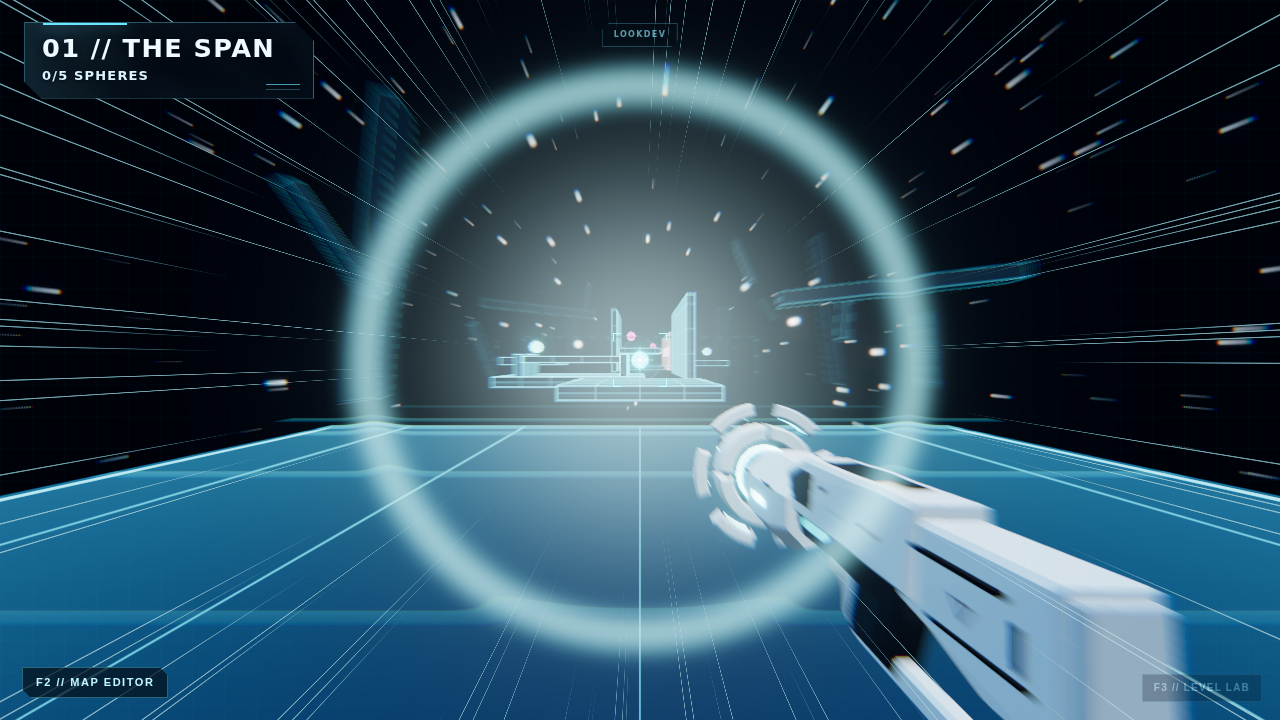
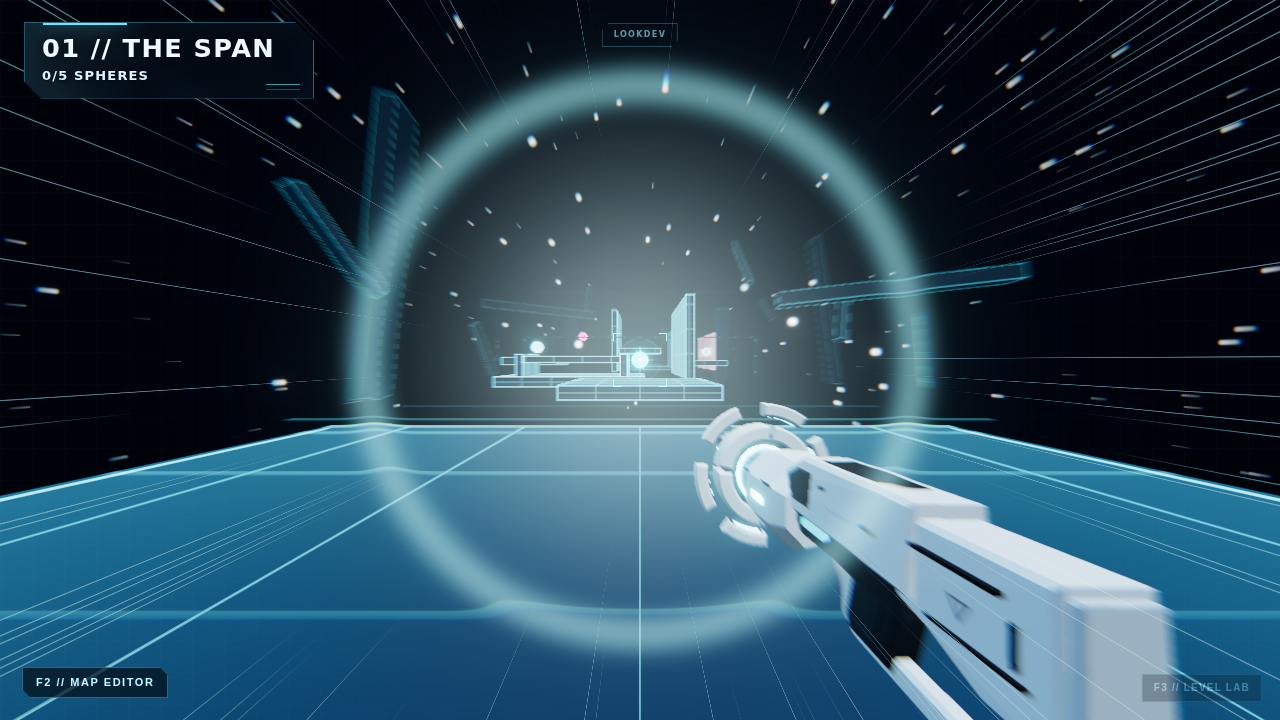
fx: livelier rifle halo and a lighter warp lens
Rifle: one smoothed energy level (idle, anchor ready, primed, transit)
now drives every moving part together. The halo orbits the barrel, each
plate floats and tilts on its own phase, a breathing wave travels around
the ring, the core rotor spins up hard and the white core shell
counter-rotates.
Warp lens: about 35-45% less zoom blur, streak light, core glow, fringe
and ring strength, with a shorter tail (60 ms) and arrival (0.42 s) to
match how quickly warps move.

Claude-Session: https://claude.ai/code/session_011A1omcdcdNXpTBuZ7Lrzgf

diff --git a/src/art/procedural/models/createWarpRifleModel.ts b/src/art/procedural/models/createWarpRifleModel.ts
@@ -288,11 +288,15 @@ export function createWarpRifleModel(): THREE.Group {
   const coreHousing = new THREE.Mesh(fullRing(0.225, 0.29, 0.15), graphite);
   coreHousing.name = "warp-core-housing";
   coreAnchor.add(coreHousing);
-  // Segmented white shell over the housing, with four machined gaps.
+  // Segmented white shell over the housing, with four machined gaps. It turns
+  // slowly against the halo so the core always reads as a live mechanism.
+  const coreShell = new THREE.Group();
+  coreShell.name = "core-shell-pivot";
+  coreAnchor.add(coreShell);
   for (let i = 0; i < 4; i += 1) {
     const seg = new THREE.Mesh(annulus(0.262, 0.34, Math.PI * 0.03 + i * Math.PI * 0.5, Math.PI * 0.44, 0.18, 0.016), white);
     seg.name = `warp-core-shell-${i}`;
-    coreAnchor.add(seg);
+    coreShell.add(seg);
   }
   const face = new THREE.Mesh(new THREE.CircleGeometry(0.24, 40), dark);
   face.position.z = -0.05;
@@ -417,12 +421,18 @@ export function createWarpRifleModel(): THREE.Group {
   recoilPivot.add(muzzleSocket);
 
   root.userData.warpRifleMaterials = { energy, energySoft };
-  root.userData.warpRifleParts = { recoilPivot, coreAnchor, corePivot, ringSegments, muzzleAssembly, muzzleSocket };
+  root.userData.warpRifleParts = { recoilPivot, coreAnchor, coreShell, corePivot, ringSegments, muzzleAssembly, muzzleSocket };
   return root;
+}
+
+/** Smoothly approach a target so state changes ramp instead of snapping. */
+function approach(current: number, target: number, dt: number, seconds: number): number {
+  return current + (target - current) * (1 - Math.exp(-dt / seconds));
 }
 
 export function updateWarpRifleModel(visual: THREE.Group, dt: number, time: number): void {
   const parts = visual.userData.warpRifleParts as {
+    coreShell?: THREE.Group;
     corePivot?: THREE.Group;
     ringSegments?: THREE.Group;
     muzzleAssembly?: THREE.Group;
@@ -433,22 +443,33 @@ export function updateWarpRifleModel(visual: THREE.Group, dt: number, time: numb
   } | undefined;
   const state = (visual.parent?.userData.traversalWeaponState ?? {}) as WarpRifleVisualState;
   const preview = Boolean(state.anchorReady && state.warpHeld);
+  const motion = visual.userData.warpRifleMotion as { spin: number; orbit: number; shell: number; spread: number; energy: number } | undefined
+    ?? (visual.userData.warpRifleMotion = { spin: 0.6, orbit: 0, shell: 0, spread: 0, energy: 0 });
 
-  if (parts?.corePivot) parts.corePivot.rotation.z += dt * (state.transiting ? 6 : preview ? 2.8 : 0.6);
+  // One "energy" level drives every moving part so they accelerate together:
+  // idle 0, anchor ready 0.35, primed 0.7, transit 1.
+  motion.energy = approach(motion.energy, state.transiting ? 1 : preview ? 0.7 : state.anchorReady ? 0.35 : 0, dt, state.transiting ? 0.04 : 0.18);
+  const e = motion.energy;
+
+  // Core rotor spins up hard; the white shell counter-rotates slowly.
+  motion.spin = approach(motion.spin, 0.6 + e * e * 9, dt, 0.12);
+  if (parts?.corePivot) parts.corePivot.rotation.z += dt * motion.spin;
+  if (parts?.coreShell) parts.coreShell.rotation.z -= dt * (0.12 + e * 0.9);
 
   if (parts?.ringSegments) {
-    // Halo drifts slowly and opens outward while a warp is primed.
-    const spread = state.transiting ? 0.07 : preview ? 0.04 + Math.sin(time * 9) * 0.006 : state.anchorReady ? 0.012 : 0;
-    parts.ringSegments.rotation.z = Math.sin(time * 0.7) * 0.03;
+    // The halo orbits the barrel as a whole, each plate floats on its own
+    // phase, and a breathing wave travels around the ring.
+    motion.orbit += dt * (0.28 + e * e * 5.5);
+    motion.spread = approach(motion.spread, e * 0.07, dt, 0.08);
+    parts.ringSegments.rotation.z = motion.orbit;
     parts.ringSegments.children.forEach((segment, index) => {
       const angle = segment.userData.baseAngle as number;
-      const bob = Math.sin(time * 1.9 + index * 1.1) * 0.004;
-      const target = spread + bob;
-      const ease = 1 - Math.exp(-dt * 10);
-      const current = (segment.userData.offset as number | undefined) ?? 0;
-      const offset = current + (target - current) * ease;
-      segment.userData.offset = offset;
-      segment.position.set(Math.cos(angle) * offset, Math.sin(angle) * offset, 0);
+      const wave = Math.sin(angle * 2 - time * (2.2 + e * 6));
+      const radial = motion.spread + wave * (0.005 + e * 0.008);
+      segment.position.set(Math.cos(angle) * radial, Math.sin(angle) * radial, Math.sin(time * 1.7 + index * 0.9) * (0.008 + e * 0.012));
+      // Plates tilt like they are held by a field, not bolted on.
+      segment.rotation.x = Math.sin(time * 1.3 + index * 1.7) * (0.05 + e * 0.05);
+      segment.rotation.y = Math.cos(time * 1.1 + index * 2.3) * (0.05 + e * 0.05);
     });
   }
 
@@ -461,7 +482,7 @@ export function updateWarpRifleModel(visual: THREE.Group, dt: number, time: numb
         ? 4.6 + Math.sin(time * 10) * 0.8
         : state.anchorReady
           ? 3.4 + Math.sin(time * 4.4) * 0.25
-          : 2.6;
+          : 2.6 + Math.sin(time * 1.4) * 0.2;
   }
   if (materials?.energySoft) {
     materials.energySoft.opacity = state.transiting ? 1 : preview ? 0.95 : state.anchorReady ? 0.78 : 0.6;

diff --git a/src/render/WarpLensPass.ts b/src/render/WarpLensPass.ts
@@ -71,16 +71,16 @@ const WarpLensShader = {
 
       // Charge pinch: the edge of the world leans toward the aim point.
       float pinch = uCharge * 0.02 * smoothstep(0.25, 0.95, r);
-      float bend = (-pinch + ring * 0.03) * uMotion;
+      float bend = (-pinch + ring * 0.022) * uMotion;
       vec2 uv = vUv + dir * bend * toUv;
 
-      float fringe = (uCharge * 0.0022 + uTransit * 0.011 + ring * 0.008) * r * uMotion;
+      float fringe = (uCharge * 0.0018 + uTransit * 0.007 + ring * 0.006) * r * uMotion;
       vec2 shift = dir * fringe * toUv;
 
       vec3 col;
       if (uTransit > 0.002) {
         // Zoom tunnel: accumulate samples pulled toward the centre.
-        float blur = uTransit * 0.16 * uMotion;
+        float blur = uTransit * 0.1 * uMotion;
         vec3 acc = vec3(0.0);
         float wsum = 0.0;
         for (int i = 0; i < 12; i++) {
@@ -97,7 +97,7 @@ const WarpLensShader = {
 
       // Transit light: cool tunnel walls, radial streaks, white-cyan core.
       float edge = smoothstep(0.12, 0.85, r);
-      col = mix(col, col * vec3(0.32, 0.62, 1.05), uTransit * edge);
+      col = mix(col, col * vec3(0.5, 0.75, 1.05), uTransit * edge * 0.8);
       float angle = atan(ca.y, ca.x);
       float lanes = angle * 96.0;
       float lane = floor(lanes);
@@ -106,11 +106,11 @@ const WarpLensShader = {
       float streak = step(0.78, seed) * thin;
       float reach = 0.18 + hash(lane * 3.1) * 0.5;
       streak *= smoothstep(reach, reach + 0.35, r);
-      col += vec3(0.45, 0.9, 1.0) * streak * uTransit * 0.55 * uFlash;
-      col += vec3(0.7, 0.96, 1.0) * exp(-r * r * 30.0) * uTransit * 0.32 * uFlash;
+      col += vec3(0.45, 0.9, 1.0) * streak * uTransit * 0.32 * uFlash;
+      col += vec3(0.7, 0.96, 1.0) * exp(-r * r * 30.0) * uTransit * 0.18 * uFlash;
 
       // Arrival light: the ring's leading edge and a short core flash.
-      col += vec3(0.4, 0.9, 1.0) * ring * 0.28 * uFlash;
+      col += vec3(0.4, 0.9, 1.0) * ring * 0.16 * uFlash;
       col += vec3(0.7, 0.96, 1.0) * exp(-r * r * 14.0) * fade * fade * 0.12 * uFlash;
 
       // Charge: a cool rim closes in from the frame edge.
@@ -154,12 +154,12 @@ export class WarpLensPass extends ShaderPass {
       // Hard attack so a 0.1 s warp still peaks.
       this.transit = Math.min(1, this.transit + dt / 0.035);
     } else {
-      this.transit *= Math.exp(-dt / 0.085);
+      this.transit *= Math.exp(-dt / 0.06);
       if (this.transit < 0.002) this.transit = 0;
     }
     if (this.wasTransiting && !input.transiting) this.arrival = 0;
     this.wasTransiting = input.transiting;
-    this.arrival = Math.min(1, this.arrival + dt / 0.55);
+    this.arrival = Math.min(1, this.arrival + dt / 0.42);
 
     const state = this.override ?? { charge: this.charge, transit: this.transit, arrival: this.arrival };
     const u = this.uniforms as typeof WarpLensShader.uniforms;
